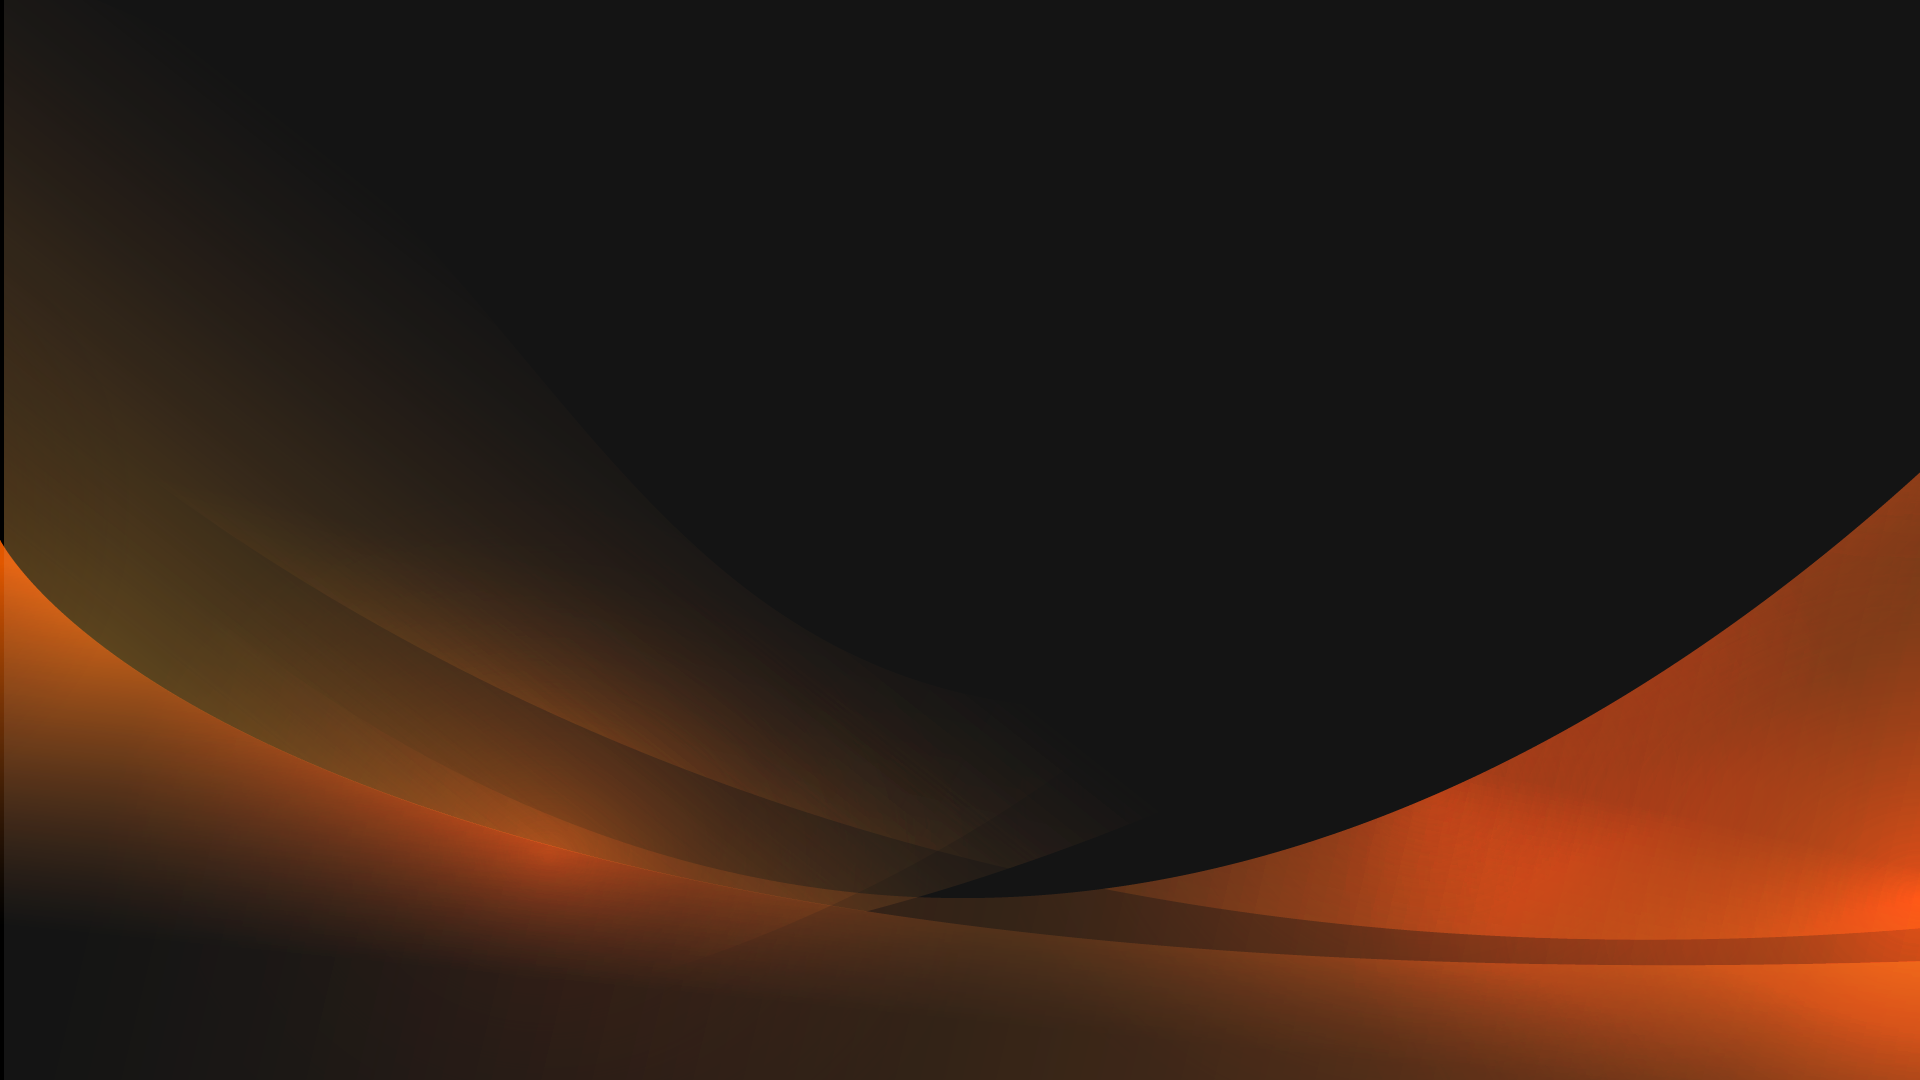
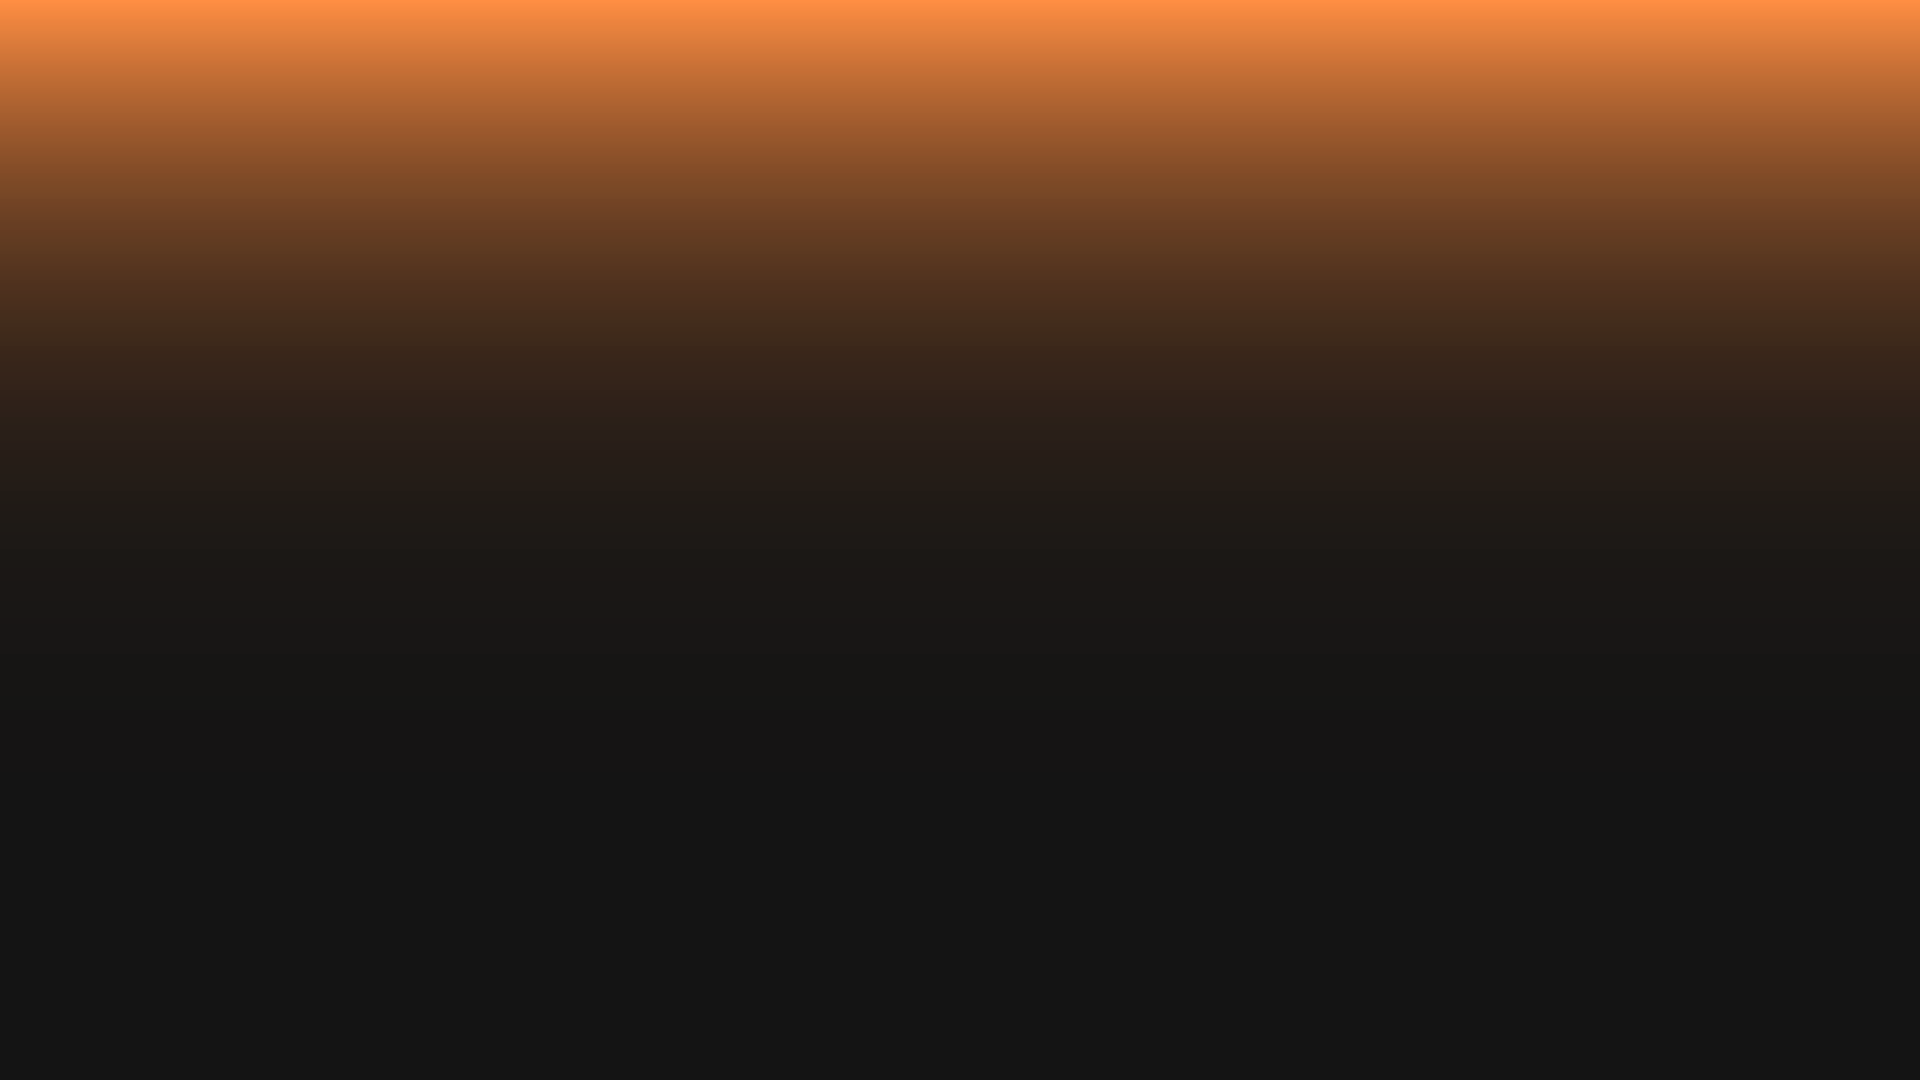
mejorado de fondos

diff --git a/src/styles/about.css b/src/styles/about.css
@@ -7,7 +7,9 @@
   align-items: center;
   flex-direction: column;
   justify-content: center;
+  background-image: url(../../public/images/aboutdefinitivo.png);
   background-repeat: no-repeat;
+  background-position: center;
   background-size: cover;
 }
 
@@ -26,7 +28,7 @@
 }
 
 #about h2 {
-  color: orange;
+  color: rgb(255, 255, 255);
   text-align: center;
 }
 
@@ -49,13 +51,10 @@
   display: flex;
   flex-direction: column;
   align-items: center;
-  background-color: rgb(219, 139, 85);
+  background-color: rgb(96, 88, 82);
   padding: 40px;
   border-top-left-radius: 100px;
   border-bottom-left-radius: 100px;
-  box-shadow: 18px -16px 0px 3px rgb(91, 90, 88);
-  -webkit-box-shadow: 18px -16px 0px 3px rgb(255, 255, 255);
-  -moz-box-shadow: 18px -16px 0px 3px rgb(113, 103, 92);
 }
 
 .customContainer .aboutPhoto .imgName {
@@ -64,7 +63,7 @@
 
 .customContainer .aboutPhoto .imgName h3 {
   text-align: center;
-  color: rgb(56, 55, 53);
+  color: rgb(188, 188, 188);
   font-size: 1.3rem;
   padding-top: 10px;
 }

diff --git a/src/pages/Projects.jsx b/src/pages/Projects.jsx
@@ -2,6 +2,7 @@ import React from "react";
 import { FontAwesomeIcon } from "@fortawesome/react-fontawesome";
 import { faArrowDown } from "@fortawesome/free-solid-svg-icons";
 import { Swiper, SwiperSlide } from "swiper/react";
+import { faSquareGithub } from "@fortawesome/free-brands-svg-icons";
 import {
   EffectCoverflow,
   Navigation,

diff --git a/src/pages/Contact.jsx b/src/pages/Contact.jsx
@@ -6,7 +6,7 @@ import { FontAwesomeIcon } from "@fortawesome/react-fontawesome";
 export const Contact = () => {
   return (
     <section id="contact">
-      <div className="customTittle">
+      <div className="customTittle text-center">
         <h2>Contact me</h2>
       </div>
       <div className="contenido">

diff --git a/src/styles/projects.css b/src/styles/projects.css
@@ -8,7 +8,7 @@
   background-color: #5f5f5f;
   background-repeat: no-repeat;
   background-size: cover;
-  background-image: url(../../public/images/aboutdefinitivo.png);
+  background-image: url(../../public/images/projects.png);
 }
 
 .swiperContent {

diff --git a/src/styles/home.css b/src/styles/home.css
@@ -11,6 +11,7 @@
   background-image: url("../../public/images/homedefinitivo.png");
   background-repeat: no-repeat;
   background-size: cover;
+  background-position: center;
 }
 #home .contenido {
   background-color: rgba(106, 105, 105, 0.6);
